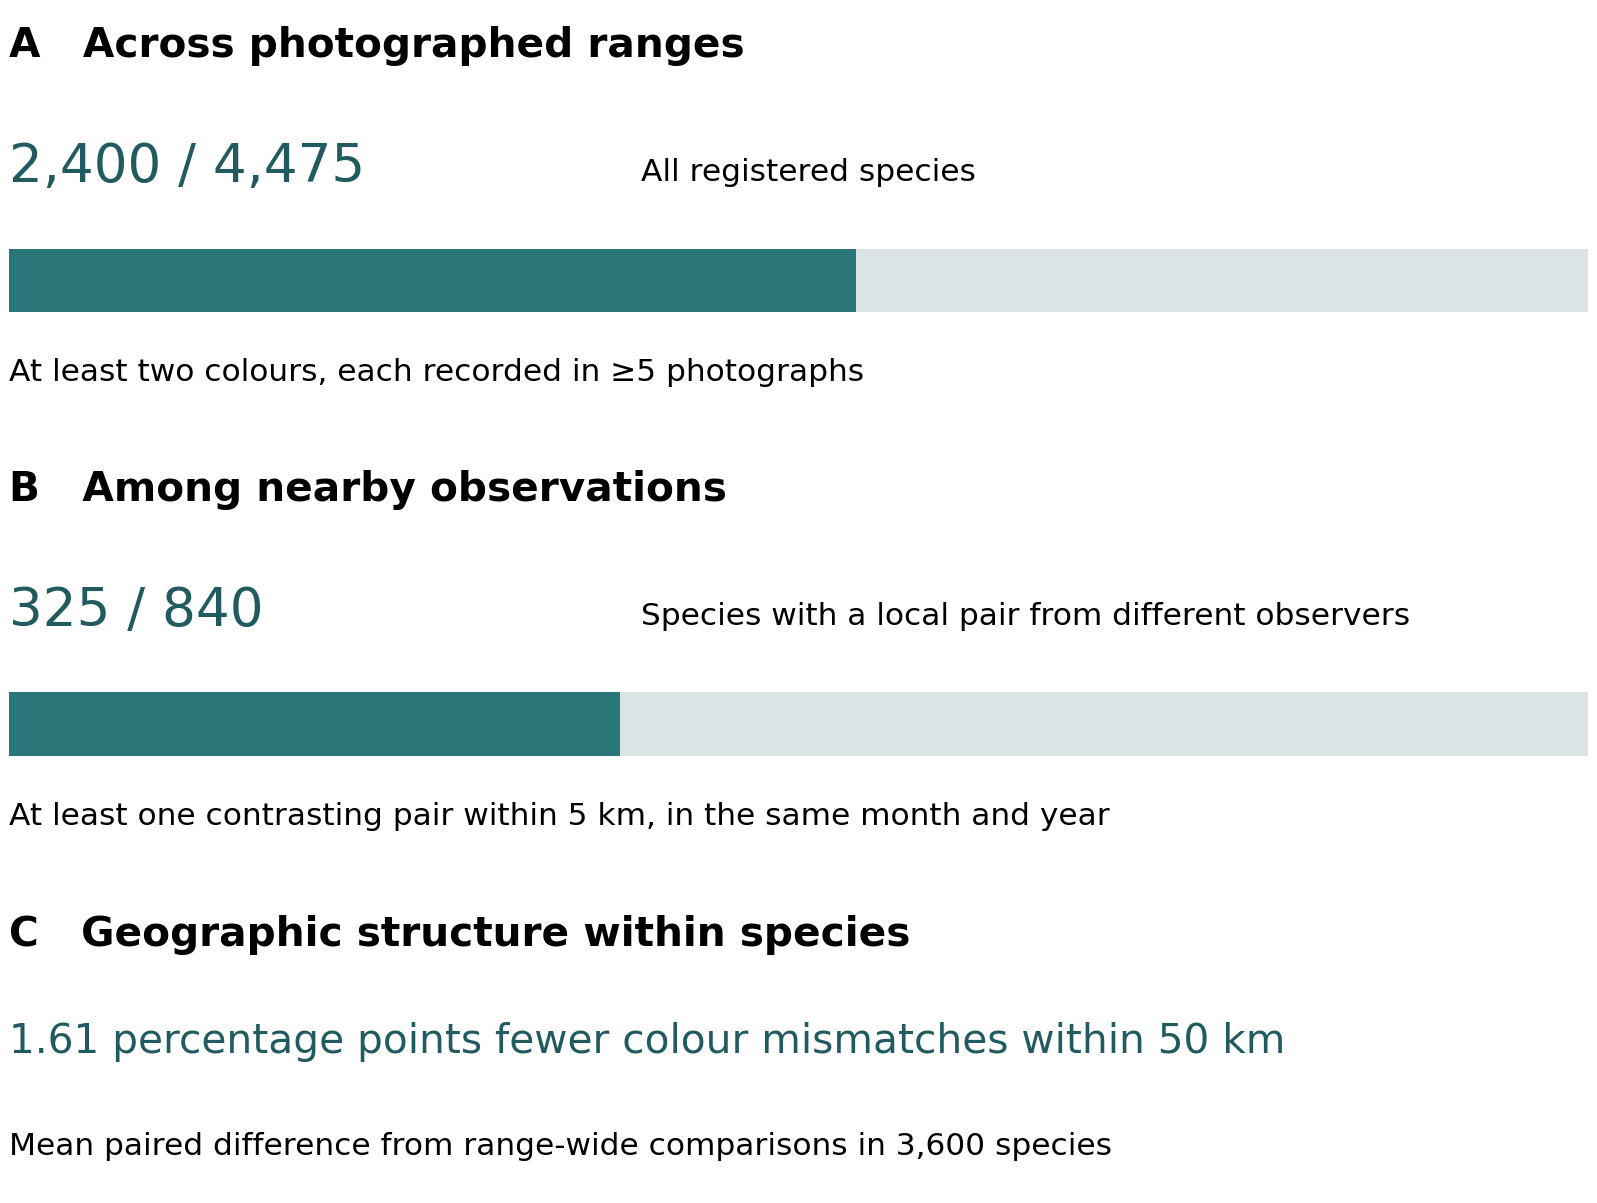
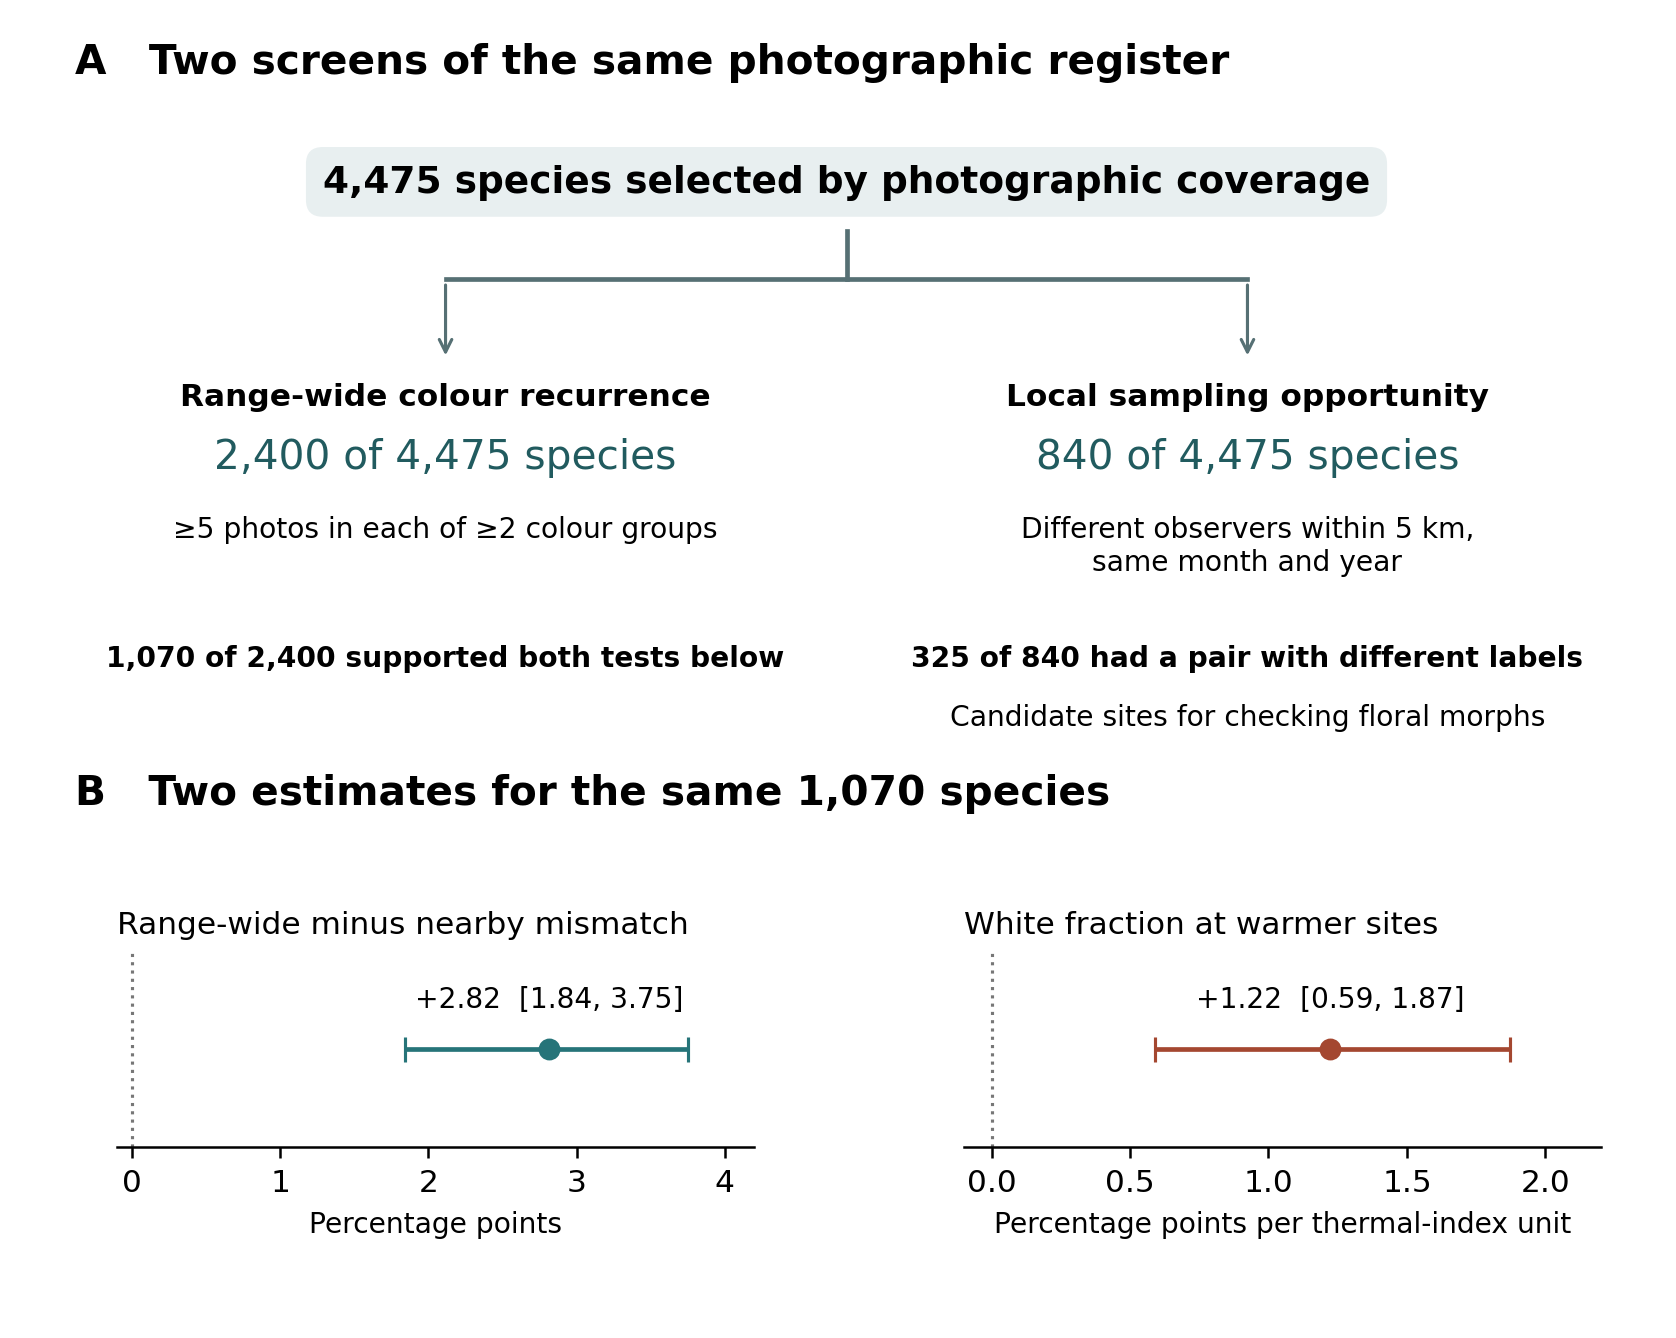
Lead with geographic recurrence and thermal estimates across identical species

diff --git a/manuscripts/climate_colour/render_figures.py b/manuscripts/climate_colour/render_figures.py
@@ -21,26 +21,48 @@ assert category_counts.shape[1] == 4 and ledger.inat_taxon_id.is_unique
 assert (different_pairs <= local_pairs).all()
 assert (len(ledger), repeated.sum(), local_eligible.sum(), local_contrast.sum()) == (4475, 2400, 840, 325)
 assert (repeated & local_contrast).sum() == 228
-panels = [
-    ('A   Across photographed ranges', repeated.sum(), len(ledger),
-     'All registered species', 'At least two colours, each recorded in ≥5 photographs'),
-    ('B   Among nearby observations', local_contrast.sum(), local_eligible.sum(),
-     'Species with a local pair from different observers', 'At least one contrasting pair within 5 km, in the same month and year'),
-]
-fig, axes = plt.subplots(3, 1, figsize=(7.1, 5.35), layout='constrained', height_ratios=[1,1,.7])
-for ax, (heading, count, total, population, outcome) in zip(axes, panels):
-    ax.axis('off')
-    ax.set(xlim=(0, 1), ylim=(0, 1))
-    ax.text(0, .96, heading, va='top', fontsize=13, weight='bold')
-    ax.text(0, .69, f'{int(count):,} / {int(total):,}', va='top', fontsize=17, color='#215b5f')
-    ax.text(.40, .65, population, va='top', fontsize=10)
-    ax.barh(.36, 1, height=.15, color='#dce3e5')
-    ax.barh(.36, count/total, height=.15, color='#297578')
-    ax.text(0, .18, outcome, va='top', fontsize=10)
-axes[2].axis('off')
-axes[2].text(0, .94, 'C   Geographic structure within species', va='top', fontsize=13, weight='bold')
-axes[2].text(0, .58, '1.61 percentage points fewer colour mismatches within 50 km', va='top', color='#215b5f', fontsize=13)
-axes[2].text(0, .21, 'Mean paired difference from range-wide comparisons in 3,600 species', va='top')
+register = pd.read_csv(root/'Table_S10_common_species.csv.gz')
+common = register.loc[register.common]
+assert set(common.inat_taxon_id) == set(register.loc[
+    register.repeated & register.geo.notna() & register.thermal.notna(), 'inat_taxon_id'])
+assert len(common) == 1070
+fig = plt.figure(figsize=(7.45, 5.95))
+tree = fig.add_axes([.045, .39, .92, .59])
+tree.set(xlim=(0, 1), ylim=(0, 1))
+tree.axis('off')
+tree.text(0, .98, 'A   Two screens of the same photographic register', weight='bold', va='top', fontsize=13)
+tree.text(.50, .79, f'{len(register):,} species selected by photographic coverage', ha='center',
+          weight='bold', fontsize=12, bbox=dict(boxstyle='round,pad=.45', fc='#e8eff0', ec='none'))
+tree.plot([.50,.50], [.74,.68], color='#567074')
+tree.plot([.24,.76], [.68,.68], color='#567074')
+for x in [.24,.76]:
+    tree.annotate('', xy=(x,.575), xytext=(x,.68), arrowprops=dict(arrowstyle='->',color='#567074'))
+tree.text(.24,.52,'Range-wide colour recurrence', ha='center', weight='bold')
+tree.text(.76,.52,'Local sampling opportunity', ha='center', weight='bold')
+tree.text(.24,.44,f'{repeated.sum():,} of {len(register):,} species', ha='center',color='#215b5f',fontsize=13)
+tree.text(.76,.44,f'{local_eligible.sum():,} of {len(register):,} species', ha='center',color='#215b5f',fontsize=13)
+tree.text(.24,.38,'≥5 photos in each of ≥2 colour groups', ha='center',va='top',fontsize=9)
+tree.text(.76,.38,'Different observers within 5 km,\nsame month and year',ha='center',va='top',fontsize=9)
+tree.text(.24,.19,f'{len(common):,} of {repeated.sum():,} supported both tests below',ha='center',fontsize=9,weight='bold')
+tree.text(.76,.19,f'{local_contrast.sum():,} of {local_eligible.sum():,} had a pair with different labels',ha='center',fontsize=9,weight='bold')
+tree.text(.76,.115,'Candidate sites for checking floral morphs',ha='center',fontsize=9)
+fig.text(.045,.399,'B   Two estimates for the same 1,070 species',weight='bold',fontsize=13)
+for i,(field,label,unit,colour,limit) in enumerate([
+        ('geo','Range-wide minus nearby mismatch','Percentage points',rain,4.2),
+        ('thermal','White fraction at warmer sites','Percentage points per thermal-index unit',thermal,2.2)]):
+    group = common.groupby('genus')[field].agg(['sum','count']).to_numpy()
+    rng = np.random.default_rng(273)
+    draws = group[rng.integers(len(group), size=(5000,len(group)))].sum(axis=1)
+    low,high = 100*np.percentile(draws[:,0]/draws[:,1],[2.5,97.5])
+    mean = 100*common[field].mean()
+    ax = fig.add_axes([.07+.505*i,.143,.38,.145])
+    ax.axvline(0,color='#777',ls=':',lw=1)
+    ax.errorbar(mean,.5,xerr=[[mean-low],[high-mean]],fmt='o',color=colour,capsize=4)
+    ax.set(xlim=(-.1,limit),ylim=(0,1),yticks=[],xlabel=unit)
+    ax.xaxis.label.set_size(9)
+    ax.spines['left'].set_visible(False)
+    ax.set_title(label,fontsize=10,loc='left')
+    ax.text(mean,.72,f'+{mean:.2f}  [{low:.2f}, {high:.2f}]',ha='center',fontsize=9)
 fig.savefig(root/'Figure_1_range_local.png', dpi=225)
 plt.close(fig)
 

diff --git a/manuscripts/FCP_NEW_PHYTOLOGIST_INTEGRATED_POSITIVE_RESULTS_20261024.md b/manuscripts/FCP_NEW_PHYTOLOGIST_INTEGRATED_POSITIVE_RESULTS_20261024.md
@@ -1,4 +1,4 @@
-# Temperature and geographic structure of within-species flower colour variation in angiosperms
+# Geographic structure and thermal variation in flower colour within angiosperm species
 
 **Authors:** [Author list and order to be confirmed]
 
@@ -10,10 +10,10 @@
 
 ## Summary
 
-- Contrasting flower colours can recur across a species’ range even if they seldom meet within a population. We asked how colour variation is distributed within species and whether its geographic differentiation follows a shared thermal direction.
-- We selected 4,475 angiosperms by photographic coverage before assessing colour. We compared nearby and range-wide photographs and estimated within-species associations between the white fraction of the photographed flower region and a temperature index, accounting for broad geography, month and other climatic gradients.
-- Conspecific photographs within 50 km differed in colour category 1.61 percentage points less often than range-wide pairs. Across 2,837 species with temperature estimates, the white fraction increased by a mean of 0.82 percentage points per within-species temperature-index unit. The mean was positive in two independent sets of photographers, yet only 54.2% of species estimates were positive. The middle half ranged from −3.46 to +4.96 percentage points.
-- The mean shift towards white at warmer localities was repeatable, but individual species estimates agreed poorly between observer sets. A shift in mean colour can accompany either an increase or a decrease in local diversity, depending on which colour was initially rarer.
+- Flower colour polymorphism may persist through coexistence of morphs within populations or geographic differences in which colours predominate. How much spatial structure is visible in species with recurrent colour variation, and do their colours shift in a common direction along temperature gradients?
+- We screened 4,475 angiosperm species selected by photographic coverage. Multiple colour categories recurred across the ranges of 2,400 species. We compared nearby and range-wide records and estimated within-species temperature associations with the white pixel fraction of the photographed flower region.
+- In the same 1,070 species with both estimates, nearby pairs differed in colour category 2.82 percentage points less often than range-wide pairs (95% interval 1.84–3.75). White fraction increased by a mean of 1.22 percentage points per within-species thermal-index unit (0.59–1.87). The positive mean persisted in a separate comparison adjusting for precipitation and soil. Individual species estimates varied widely and agreed poorly between observer sets.
+- Thus spatially structured floral appearances show a small shift towards white at warmer sites on average. Nearby photographs with contrasting labels identify places to examine whether corresponding floral organs differ and whether distinct morphs persist through generations.
 
 **Key words:** angiosperms, citizen science, flower colour, geographic variation, intraspecific variation, polymorphism, temperature
 
@@ -23,7 +23,7 @@ What does it take for a species to retain more than one flower colour? Selection
 
 Warmer localities may differ in the colours produced by the same genotype, in the frequencies of genotypes, or in the floral tissues and stages photographed. A repeated association across species would identify a direction of phenotypic variation along a temperature gradient. Demonstrating selection would also require evidence that the variants differ in reproductive success under those conditions.
 
-Warren & Mackenzie (2001) showed that combinations of flower-colour variants occur at unequal frequencies in the British flora. Studies of geographic differences in floral colour have since linked colour to biotic and abiotic conditions across species (Dalrymple et al., 2020), and found that colour within individual species can be spatially structured even where the association with climate is weak (Luong et al., 2023). Within-species spatial differentiation may also reflect population history or local ecological processes (Schemske & Bierzychudek, 2007). These studies identify mechanisms in particular systems. The comparative gap concerns scale: when species are sampled before their colour variation is known, how often do contrasting appearances recur across their ranges, how often are they recorded close together, and does temperature predict a common direction of change across those spatially structured records?
+Warren & Mackenzie (2001) showed that combinations of flower-colour variants occur at unequal frequencies in the British flora. Studies of geographic differences in floral colour have since linked colour to biotic and abiotic conditions across species (Dalrymple et al., 2020), and found that colour within individual species can be spatially structured even where the association with climate is weak (Luong et al., 2023). Within-species spatial differentiation may also reflect population history or local ecological processes (Schemske & Bierzychudek, 2007). Sullivan & Koski (2021) followed pigmentation in herbarium records of 12 species with known anthocyanin polymorphisms over 124 years. A complementary geographic question begins before polymorphism is established: when species are sampled before their colour variation is known, how often do contrasting appearances recur across their ranges, how often are they recorded close together, and does temperature predict a common direction of change across those spatially structured records?
 
 We first asked how closely conspecific flowers resemble each other across geographic distances. We then tested whether the fraction of white pixels in the photographed flower region changes with temperature within species, how widely slopes vary among species and whether their mean recurs across independent observers. Finally, we compared precipitation and soil properties on the same geographic scale to put the thermal association in context.
 
@@ -77,7 +77,7 @@ In the 2,400 species with at least five photographs in each of two or more colou
 
 ### Range-wide colour variation and local photographic contrasts
 
-Across their photographed ranges, 2,400 of 4,475 species had at least five photographs in each of two or more colour categories. These counts describe repeated appearances across a species’ photographed range. At a finer scale, 840 species had observations by different photographers within 5 km in the same calendar month and year. In 325 of those species, at least one such pair had different colour labels (Fig. 1). Some local contrasts involved a colour too sparsely sampled to meet the range-wide threshold. The observations identify local sampling opportunities; even this criterion does not establish that the photographed plants exchanged pollen or belonged to a single breeding population. Multiple flowers, organs and developmental stages can contribute to a category, and the sampling frame does not estimate the global prevalence of flower-colour polymorphism.
+Across their photographed ranges, 2,400 of 4,475 species had at least five photographs in each of two or more colour categories. These counts describe repeated appearances across a species’ photographed range. At a finer scale, 840 species had observations by different photographers within 5 km in the same calendar month and year. In 325 of those species, at least one such pair had different colour labels (Fig. 1). Among the 2,400 species meeting the range-wide threshold, 415 had a qualifying local pair and 228 of those had contrasting labels. A single close pair can include a colour too sparsely recorded to meet the range-wide threshold. The observations identify local sampling opportunities; even this criterion does not establish that the photographed plants exchanged pollen or belonged to a single breeding population. Multiple flowers, organs and developmental stages can contribute to a category, and the sampling frame does not estimate the global prevalence of flower-colour polymorphism.
 
 Nearby conspecific photographs also resembled each other: four-category mismatch within 50 km was 1.61 percentage points lower than range-wide mismatch (3,600 species, P = 0.005; Fig. S2). In a stricter panel of 1,761 species the continuous nine-colour similarity excess was 0.01146 on the base-2 Jensen–Shannon divergence scale relative to month-preserving permutations (P = 0.005). This excess persisted after observer thinning (0.01123, 1,655 species).
 
@@ -93,11 +93,11 @@ The mean white coefficient remained positive with one photograph per observer (+
 
 Among 2,820 species with both a thermal colour estimate and an estimable classification-success slope, the mean probability of a successful classification changed by −0.30 percentage points per thermal-index unit (whole-genus bootstrap 95% interval −0.76 to +0.16). Selection of different floral organs or colour-dependent errors among successful classifications remain possible (Supporting Methods S7).
 
-Among the 1,070 species with repeated colour categories and estimates of both spatial structure and temperature, nearby pairs differed in colour 2.82 percentage points less often than range-wide pairs (95% interval 1.84–3.75). The mean increase in photographic white fraction was 1.22 points per thermal-index unit (0.59–1.87). Thus the spatial and thermal patterns were detectable in the same species (Table S10).
+Among the 1,070 species with repeated colour categories and estimates of both spatial structure and temperature, nearby pairs differed in colour 2.82 percentage points less often than range-wide pairs (95% interval 1.84–3.75). The mean increase in photographic white fraction was 1.22 points per thermal-index unit (0.59–1.87). These are two means over identical species (Fig. 1b; Table S10). Their magnitudes describe separate properties of the photographs.
 
 ### Precipitation and soil in geographic context
 
-The mean temperature coefficient vector was more closely aligned with the white–chromatic axis than the mean precipitation vector in the matched sample, but this contrast narrowed when the largest cohort was omitted (Fig. S3, Table S3). In the separate distance-matched comparison, different-colour pairs had a slightly larger temperature difference than same-colour pairs (+0.0089 within-species SD, adjusted 95% interval +0.0017 to +0.0162). Precipitation, pH, clay and total nitrogen showed no consistent excess difference at this grid scale (Table S4). For the distinct question of a directional shift towards white, 1,253 species had sufficient support for paired climate and soil models. On the same 68,575 photographs, the mean thermal slope was +1.40 percentage points per index unit with climate, month and geography adjustment and +1.14 after adding the three soil properties (95% interval +0.53 to +1.75; Table S9).
+The mean temperature coefficient vector was more closely aligned with the white–chromatic axis than the mean precipitation vector in the matched sample, but this contrast narrowed when the largest cohort was omitted (Fig. S3, Table S3). In the separate distance-matched comparison, different-colour pairs had a slightly larger temperature difference than same-colour pairs (+0.0089 within-species SD, adjusted 95% interval +0.0017 to +0.0162). Precipitation, pH, clay and total nitrogen showed no consistent excess difference at this grid scale (Table S4). For the distinct question of a directional shift towards white, 1,253 species had sufficient support for paired climate and soil models. On the same 68,575 photographs, the mean thermal slope was +1.40 percentage points per index unit with climate, month and geography adjustment (95% interval +0.86 to +1.94) and +1.14 after adding soil pH, clay and total nitrogen (+0.53 to +1.75). The paired coefficient change was −0.26 points (−0.60 to +0.08; Table S9). The positive association therefore persisted conditional on the measured grid-scale covariates; the magnitude of attenuation was uncertain.
 
 ## Discussion
 
@@ -167,6 +167,8 @@ Schemske DW, Bierzychudek P. 2007. Spatial differentiation for flower color in t
 
 Stankowski S, Streisfeld MA. 2015. Introgressive hybridization facilitates adaptive divergence in a recent radiation of monkeyflowers. *Proceedings of the Royal Society B* **282**: 20151666. https://doi.org/10.1098/rspb.2015.1666
 
+Sullivan CN, Koski MH. 2021. The effects of climate change on floral anthocyanin polymorphisms. *Proceedings of the Royal Society B* **288**: 20202693. https://doi.org/10.1098/rspb.2020.2693
+
 Tenhumberg B, Dellinger AS, Smith SD. 2023. Modelling pollinator and nonpollinator selection on flower colour variation. *Journal of Ecology* **111**: 746–760. https://doi.org/10.1111/1365-2745.14057
 
 Turelli M, Schemske DW, Bierzychudek P. 2001. Stable two-allele polymorphisms maintained by fluctuating fitnesses and seed banks: protecting the blues in *Linanthus parryae*. *Evolution* **55**: 1283–1298. https://doi.org/10.1111/j.0014-3820.2001.tb00651.x
@@ -177,7 +179,7 @@ Warren J, Mackenzie S. 2001. Why are all colour combinations not equally represe
 
 ![Two independently defined screens for range-wide and local colour variation](climate_colour/Figure_1_range_local.png)
 
-**Figure 1. Range-wide and local records of within-species flower colour.** (a) All 4,475 species entered the range-wide screen. The numerator counts species with at least five photographs in each of at least two categories. (b) The local screen started from the same register; 840 species had a qualifying pair of classified records from different observers within 5 km in the same month and year. Of those, 325 had a pair with different photographic colour labels. Within the 2,400 species meeting the range-wide recurrence criterion, the corresponding local count was 228 of 415 eligible species. Grey represents species in each denominator that did not meet its numerator criterion. Species without a qualifying local pair are outside panel b. The local screen did not require the five-photograph threshold in panel a. (c) Difference in the proportion of mismatched pairs within 50 km relative to the photographed range (Fig. S2).
+**Figure 1. Geographic structure and the thermal colour gradient in the same species.** (a) Both screens started with 4,475 species. Range-wide recurrence required at least five photographs in each of two or more colour categories. Eligibility for the local screen required a pair from different observers within 5 km in the same month and year; 325 of the 840 eligible species had contrasting labels. The screens overlap: 228 of the 415 locally eligible species meeting the range-wide threshold had contrasting labels. A label describes a photographed region that may include several organs (Fig. 3). (b) Both panels weight the same 1,070 species equally. The left estimate is the range-wide probability of a colour mismatch minus the probability within 50 km. The right estimate is the change in white pixel fraction per unit of the within-species thermal index after adjustment for geography, month and other climatic gradients. Points are means and bars are 95% whole-genus bootstrap intervals (5,000 resamples; Table S10).
 
 ![Species mean and distribution of thermal associations](climate_colour/Figure_2_temperature.png)
 

diff --git a/manuscripts/climate_colour/Supporting_Information.md b/manuscripts/climate_colour/Supporting_Information.md
@@ -1,6 +1,6 @@
 # Supporting Information
 
-**Temperature and geographic structure of within-species flower colour variation in angiosperms**
+**Geographic structure and thermal variation in flower colour within angiosperm species**
 
 ## Methods S1. Photographs, measurement and eligibility
 
